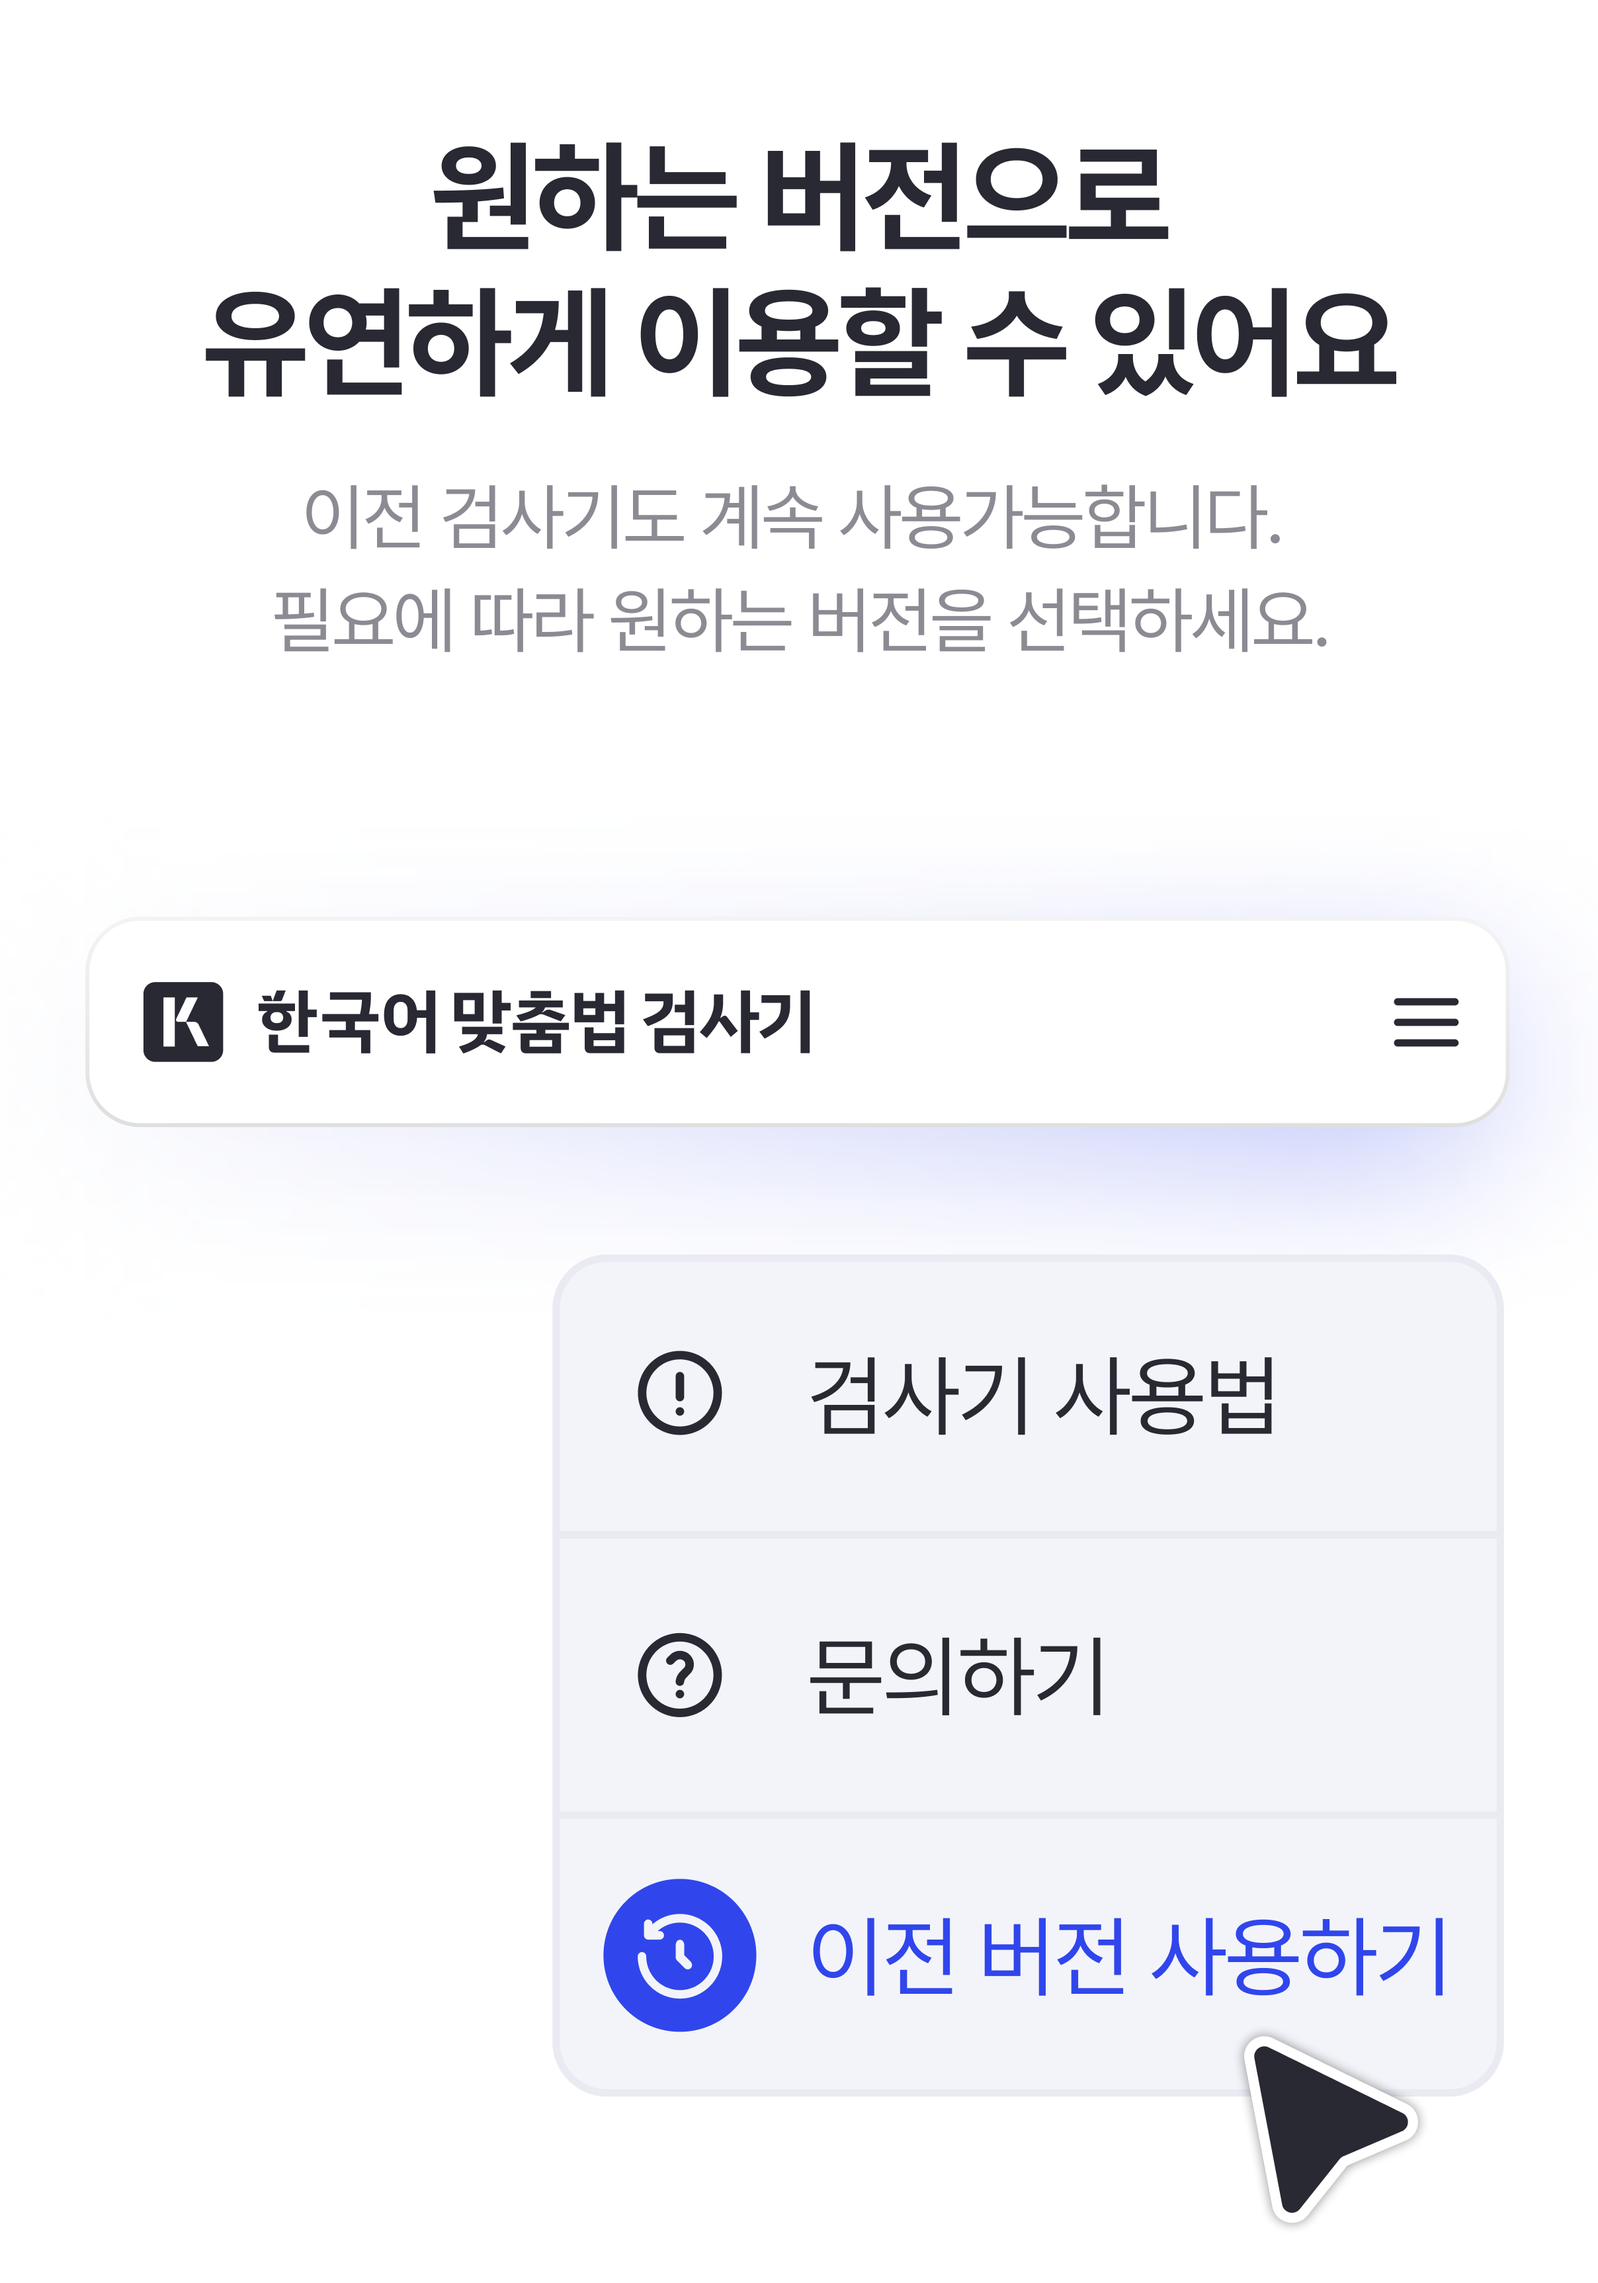
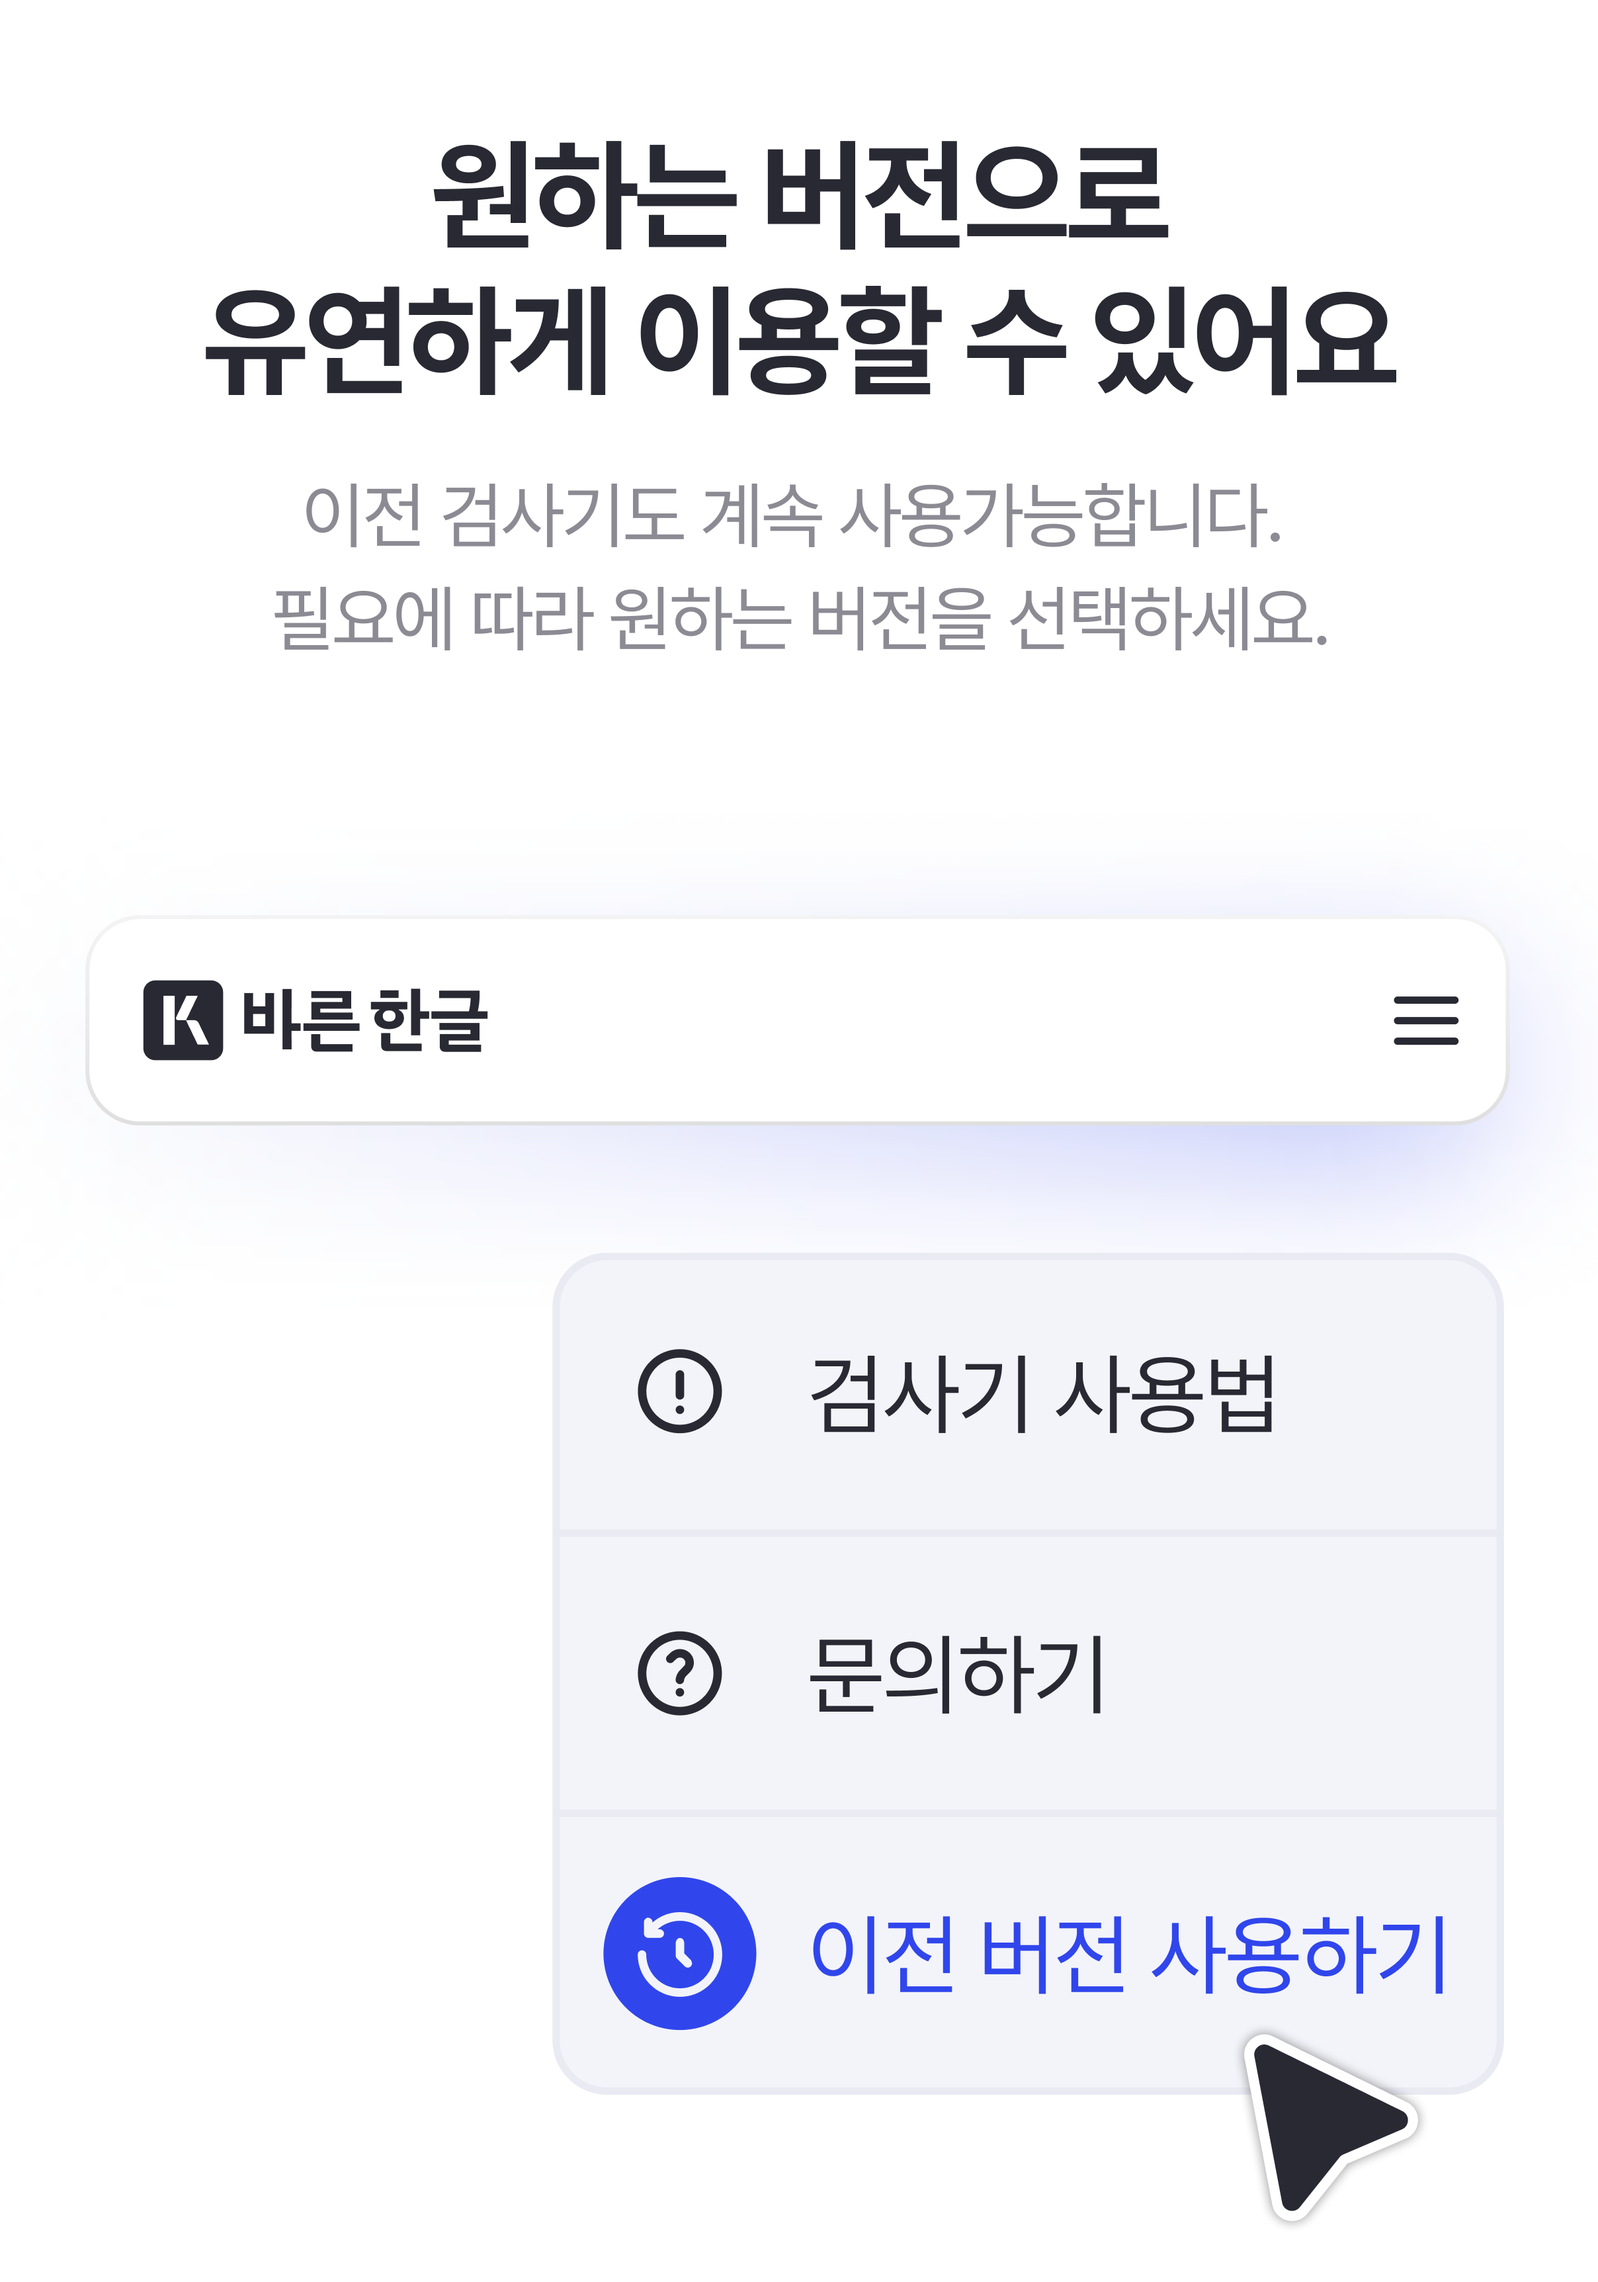
chore: 한국어 맞춤법 검사기 -> 바른 한글 변경 (#166)

diff --git a/src/shared/ui/footer.tsx b/src/shared/ui/footer.tsx
@@ -45,15 +45,15 @@ const Footer = () => {
             <div className='text-center text-[0.625rem] font-normal leading-[0.86875rem] tracking-[-0.0125rem] text-slate-500 tab:leading-[0.875rem] pc:text-start pc:text-[0.75rem] pc:leading-[1.035rem] pc:tracking-[-0.015rem]'>
               {/* 모바일 버전 */}
               <p className='pc:hidden'>
-                한국어 맞춤법/문법 검사기는 부산대학교 인공지능연구실과
+                바른 한글은 부산대학교 인공지능연구실과
               </p>
               <p className='pc:hidden'>
                 (주)나라인포테크가 함께 만들고 있습니다.
               </p>
               {/* PC 버전 */}
               <p className='hidden pc:block'>
-                한국어 맞춤법/문법 검사기는 부산대학교 인공지능연구실과
-                (주)나라인포테크가 함께 만들고 있습니다.
+                바른 한글은 부산대학교 인공지능연구실과 (주)나라인포테크가 함께
+                만들고 있습니다.
               </p>
               {/* 공통 텍스트 */}
               <p>이 검사기는 개인이나 학생만 무료로 사용할 수 있습니다.</p>

diff --git a/src/shared/ui/header.tsx b/src/shared/ui/header.tsx
@@ -10,12 +10,12 @@ const Header = () => {
         <div className='flex items-center gap-5'>
           <Link href='/'>
             <h1 className='text-xl font-bold tab:text-2xl'>
-              <div className='relative h-[1.375rem] w-[11.625rem] tab:h-[1.75rem] tab:w-[14rem] pc:h-[1.75rem] pc:w-[14.25rem]'>
+              <div className='relative h-[1.375rem] w-[5.625rem] tab:h-[1.6875rem] tab:w-[7.1875rem] pc:h-[1.6875rem] pc:w-[7.5rem]'>
                 <Image
                   src='/logo.svg'
-                  alt='한국어 맞춤법 검사기'
-                  aria-label='한국어 맞춤법 검사기'
+                  alt='바른 한글 로고'
                   fill
+                  className='object-contain'
                 />
               </div>
             </h1>
@@ -23,7 +23,7 @@ const Header = () => {
         </div>
         <div className='hidden items-center gap-4 pc:flex'>
           <Link href='/guide' className={classes.linkButton}>
-            검사기 사용법
+            사용법
           </Link>
           <Link href='/feedback' className={classes.linkButton}>
             문의하기

diff --git a/src/pages/guide/ui/tab-mobile-guide.tsx b/src/pages/guide/ui/tab-mobile-guide.tsx
@@ -4,16 +4,17 @@ import Image from 'next/image'
 export const TabMobileGuide = () => {
   return (
     <div className='pc:hidden'>
-      <Image
-        className='mx-auto'
-        src='/guide/mo/header.png'
-        width={726}
-        height={968}
-        alt='누구나 제한 없이 전문적인 맞춤법을 사용해요.'
-      />
+      <div className='relative w-full pb-[133.92%]'>
+        <Image
+          src='/guide/mo/top.png'
+          fill
+          className='object-contain'
+          alt='누구나 제한 없이 전문적인 맞춤법을 사용해요.'
+        />
+      </div>
       <div className='px-4 pc:container pc:mx-auto pc:px-[4.5rem]'>
         <h2 className='pb-[1.875rem] pt-[4.375rem] text-center text-xl font-bold text-slate-400 tab:text-3xl'>
-          한국어 맞춤법 검사기 사용법
+          바른 한글 사용법
         </h2>
         <div className='space-y-5'>
           <Image

diff --git a/src/pages/guide/ui/pc-guide.tsx b/src/pages/guide/ui/pc-guide.tsx
@@ -6,14 +6,14 @@ export const PcGuide = () => {
     <div className='hidden pc:block'>
       <Image
         className='mx-auto'
-        src='/guide/pc/header.png'
+        src='/guide/pc/top.png'
         width={1920}
         height={1200}
         alt='누구나 제한 없이 전문적인 맞춤법을 사용해요.'
       />
       <div className='px-4 pc:container pc:mx-auto pc:px-[4.5rem]'>
         <h2 className='pb-[1.875rem] pt-[4.375rem] text-center text-3xl font-bold text-slate-400'>
-          한국어 맞춤법 검사기 사용법
+          바른 한글 사용법
         </h2>
         <div className='space-y-5'>
           <Image

diff --git a/src/shared/ui/access-denied-message.tsx b/src/shared/ui/access-denied-message.tsx
@@ -6,7 +6,7 @@ const AccessDeniedMessage = () => (
         <h1>현재 접속이 제한된 IP 주소입니다.</h1>
       </div>
       <br />
-      <p>한국어 맞춤법 문법 검사기는 상용 프로그램입니다.</p>
+      <p>바른 한글은 상용 프로그램입니다.</p>
       <p>웹검사기는 개인 용도로 사용할 수 있게 편의를 제공하는 것입니다.</p>
       <p>최근 웹검사기를 허락 없이 다른 응용프로그램에서 사용하거나,</p>
       <p>기업에서 이용하는 사례가 발견되어 개선하는 중입니다.</p>

diff --git a/app/layout.tsx b/app/layout.tsx
@@ -2,7 +2,7 @@ import { App } from '@/app'
 import { Metadata } from 'next'
 
 export const metadata: Metadata = {
-  title: '한국어 맞춤법/문법 검사기',
+  title: '바른 한글',
   description:
     '한국어 맞춤법과 문법을 자동으로 검사하고 교정해주는 무료 온라인 도구입니다. 띄어쓰기, 맞춤법, 문장 구조를 분석하여 정확하고 자연스러운 한국어 작성을 도와드립니다.',
 }
